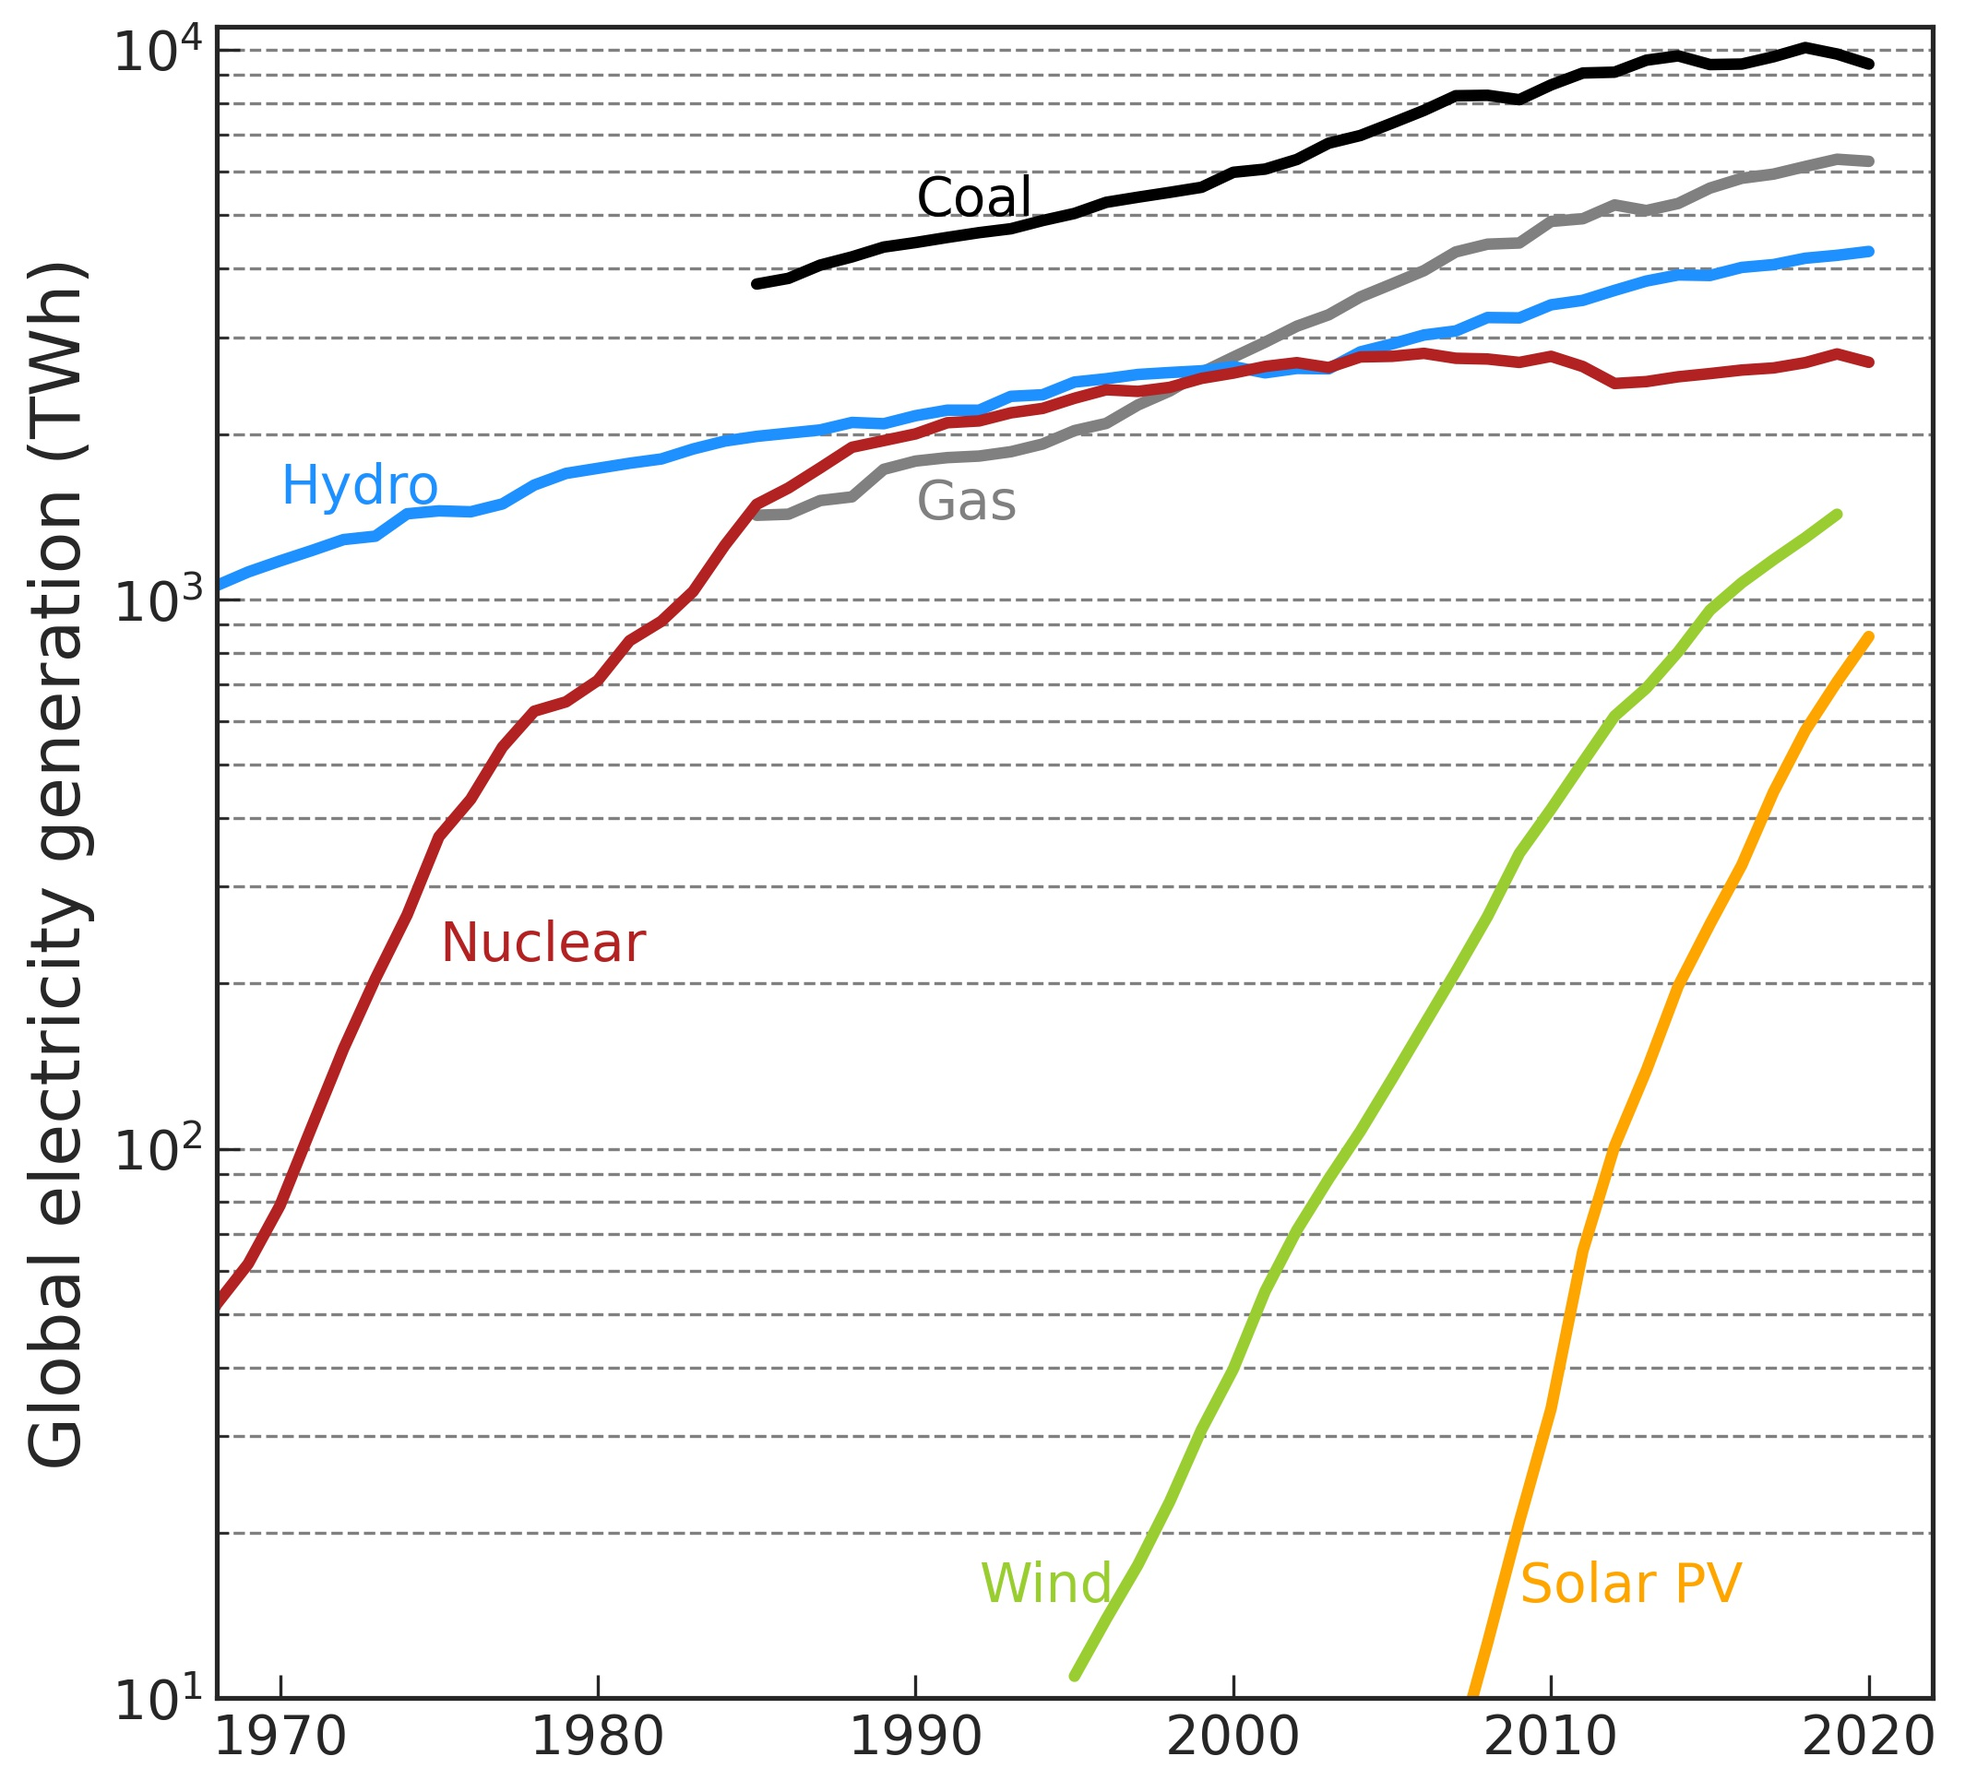
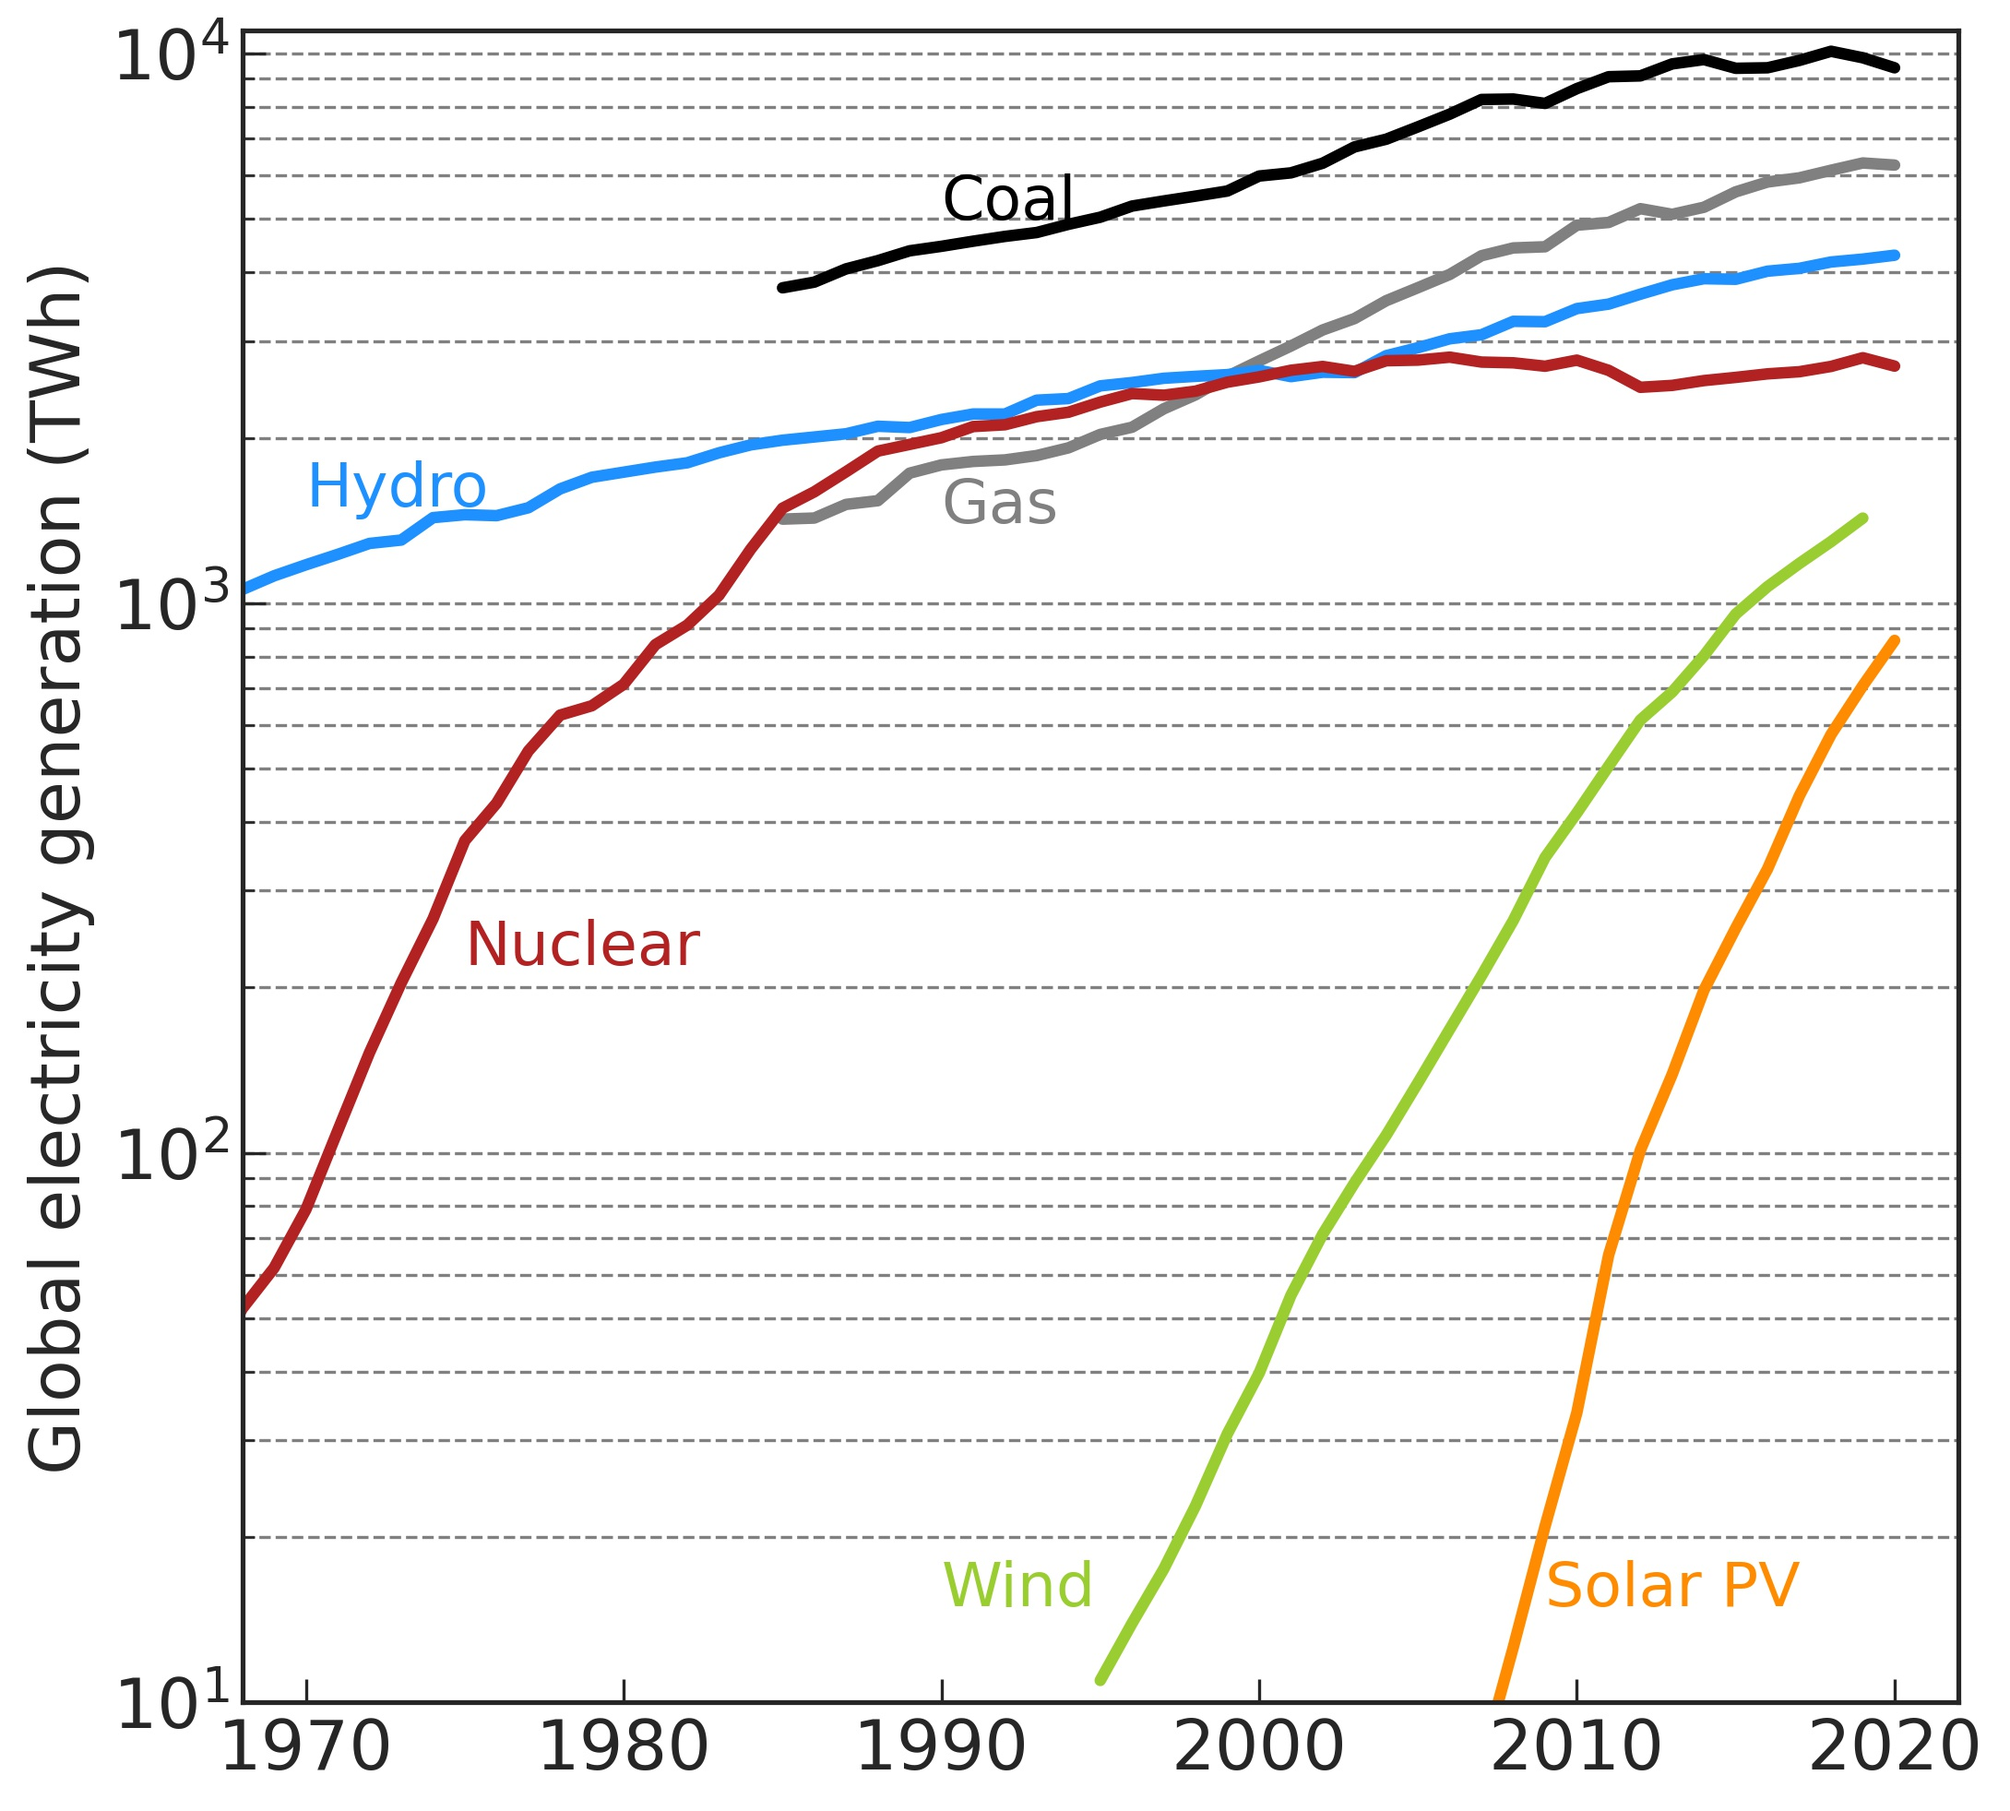
Add figures for GHG emissions  and annual and cumulative capacity

Changed region(s): [[0.0, 0.0, 0.9915, 0.9882], [0.4028, 0.2162, 0.5268, 0.3088], [0.3718, 0.2779, 0.4028, 0.3088]]

diff --git a/Figures/Chapter_1/annual_and_cumulative_capacity.py b/Figures/Chapter_1/annual_and_cumulative_capacity.py
@@ -1,0 +1,90 @@
+# -*- coding: utf-8 -*-
+"""
+@author: Marta
+"""
+
+import pandas as pd
+import matplotlib.pyplot as plt
+import matplotlib.gridspec as gridspec
+
+plt.style.use('seaborn-ticks')
+plt.rcParams['axes.labelsize'] = 18
+plt.rcParams['xtick.labelsize'] = 18
+plt.rcParams['ytick.labelsize'] = 18
+plt.rcParams['xtick.direction'] = 'in'
+plt.rcParams['ytick.direction'] = 'in'
+plt.rcParams['font.family'] = 'avenir'
+plt.rcParams['axes.titlesize'] = 18
+
+plt.figure(figsize=(16, 8))
+gs1 = gridspec.GridSpec(1, 2)
+gs1.update(wspace=0.4, hspace=0.2)
+
+colors={'Solar': 'darkorange',
+        'Solar PV': 'darkorange',
+        'Wind': 'yellowgreen',
+        'Geo Biomass Other': 'coral',
+        'Hydro':'dodgerblue',
+        'Nuclear': 'firebrick',
+        'Coal':'black',
+        'Oil': 'dimgray',
+        'Gas':'gray'}
+
+"""
+FIGURE A) ANNUAL AND CUMULATIVE PV CAPACITY
+"""
+
+ax1 = plt.subplot(gs1[0,0])
+datafile = pd.read_excel('data/bp-stats-review-2021-all-data.xlsx', 
+                              sheet_name='Solar Capacity',
+                              index_col=0, header=0, squeeze=True) 
+ 
+capacity=0.001*datafile.loc['Total World'][0:24] #MW -> GW
+capacity.index=[int(x) for x in datafile.loc['Megawatts'][0:24]]
+capacity.loc[2020]=700 #update 2020 capacity
+capacity.loc[2021]=900 #update 2020 capacity
+annual_capacity=capacity.diff()[1:]
+
+
+ax1.bar(annual_capacity.index, 
+        annual_capacity,
+              width=0.8,
+              color='black')
+ax1.set_ylabel('Solar PV - Annual capacity added (GW/y)')
+ax1.set_ylim(0,210)
+
+ax2=ax1.twinx()
+ax2.plot(capacity, 
+         color=colors['Solar PV'], 
+         linewidth=3)
+ax2.set_ylim(0,950)
+ax2.spines['right'].set_color(colors['Solar PV'])
+ax2.yaxis.label.set_color(colors['Solar PV'])
+ax2.tick_params(axis='y', colors=colors['Solar PV'])
+ax2.set_ylabel('Solar PV - Cumulative capacity (GW)', color=colors['Solar'])
+ax1.grid(color='grey', linestyle='--', axis='y', which='both')
+
+"""
+FIGURE B) INSTALLED CAPACITY PER TECHNOLOGY 2009-2019
+"""
+
+ax2 = plt.subplot(gs1[0,1])
+
+labels=['Solar PV',
+        'Wind',
+        'Hydro',
+        #'Nuclear', #net additions 2009-2019:-7GW
+        'Coal',
+        #'Oil', #net additions 2009-2019:-2GW
+        'Gas']
+
+sizes = [638, 487, 283, 529, 438]
+
+ax2.pie(sizes, 
+        colors=[colors[label] for label in labels], 
+        labels=labels, 
+        startangle=90, 
+        wedgeprops={'linewidth':0})
+ax2.set_title('Power generations capacity added (2009-2019)')
+
+plt.savefig('figures/annual_and_cumulative_capacity.jpg', dpi=300, bbox_inches='tight')  

diff --git a/Figures/Chapter_1/historical_energy_generation_expansion.py b/Figures/Chapter_1/historical_energy_generation_expansion.py
@@ -8,21 +8,21 @@ import matplotlib.pyplot as plt
 import matplotlib.gridspec as gridspec
 
 plt.style.use('seaborn-ticks')
-plt.rcParams['axes.labelsize'] = 14
-plt.rcParams['xtick.labelsize'] = 14
-plt.rcParams['ytick.labelsize'] = 14
+plt.rcParams['axes.labelsize'] = 18
+plt.rcParams['xtick.labelsize'] = 18
+plt.rcParams['ytick.labelsize'] = 18
 plt.rcParams['xtick.direction'] = 'in'
 plt.rcParams['ytick.direction'] = 'in'
 plt.rcParams['font.family'] = 'avenir'
-plt.rcParams['axes.titlesize'] = 14
+plt.rcParams['axes.titlesize'] = 18
 plt.figure(figsize=(8, 8))
 gs1 = gridspec.GridSpec(1, 1)
 gs1.update(wspace=0.2, hspace=0.2)
 
 ax1 = plt.subplot(gs1[0,0])
-colors={'Solar': 'orange',
+colors={'Solar': 'darkorange',
         'Wind': 'yellowgreen',
-        'Geo Biomass Other': 'coral',
+        'Geo Biomass Other': 'brown', #'coral',
         'Hydro':'dodgerblue',
         'Nuclear': 'firebrick',
         'Coal':'black',
@@ -74,11 +74,11 @@ ax1.set_ylabel('Global electricity generation (TWh)', fontsize=18)
 ax1.grid(color='grey', linestyle='--', axis='y', which='both')
 ax1.set_ylim(10, 11000)
 ax1.set_xlim(1968, 2022)
-ax1.text(2009, 15, 'Solar PV', color=colors['Solar'], fontsize=14)
-ax1.text(1992, 15, 'Wind', color=colors['Wind'], fontsize=14)
-ax1.text(1975, 220, 'Nuclear', color=colors['Nuclear'], fontsize=14)
-ax1.text(1990, 5000, 'Coal', color=colors['Coal'], fontsize=14)
-ax1.text(1970, 1500, 'Hydro', color=colors['Hydro'], fontsize=14)
-ax1.text(1990, 1400, 'Gas', color=colors['Gas'], fontsize=14)
+ax1.text(2009, 15, 'Solar PV', color=colors['Solar'], fontsize=16)
+ax1.text(1990, 15, 'Wind', color=colors['Wind'], fontsize=16)
+ax1.text(1975, 220, 'Nuclear', color=colors['Nuclear'], fontsize=16)
+ax1.text(1990, 5000, 'Coal', color=colors['Coal'], fontsize=16)
+ax1.text(1970, 1500, 'Hydro', color=colors['Hydro'], fontsize=16)
+ax1.text(1990, 1400, 'Gas', color=colors['Gas'], fontsize=16)
 
 plt.savefig('figures/historical_energy_generation_expansion.jpg', dpi=300, bbox_inches='tight')  

diff --git a/Figures/Chapter_1/GHG_different_technologies.py b/Figures/Chapter_1/GHG_different_technologies.py
@@ -1,0 +1,66 @@
+# -*- coding: utf-8 -*-
+"""
+@author: Marta
+"""
+
+import pandas as pd
+import matplotlib.pyplot as plt
+import matplotlib.gridspec as gridspec
+
+plt.style.use('seaborn-ticks')
+plt.rcParams['axes.labelsize'] = 18
+plt.rcParams['xtick.labelsize'] = 18
+plt.rcParams['ytick.labelsize'] = 18
+plt.rcParams['xtick.direction'] = 'in'
+plt.rcParams['ytick.direction'] = 'in'
+plt.rcParams['font.family'] = 'avenir'
+plt.rcParams['axes.titlesize'] = 18
+
+plt.figure(figsize=(16, 8))
+gs1 = gridspec.GridSpec(1, 1)
+gs1.update(wspace=0.4, hspace=0.2)
+
+colors={'Solar': 'darkorange',
+        'Solar PV': 'darkorange',
+        'Wind': 'yellowgreen',
+        'Biomass': 'peru',
+        'Geothermal': 'coral',
+        'Hydro':'dodgerblue',
+        'Nuclear': 'firebrick',
+        'Coal':'black',
+        'Oil': 'gray',
+        'Gas':'silver'}
+
+techs=['Solar PV', 
+       'Wind',
+       'Geothermal',
+       'Hydro',
+       'Nuclear',
+       'Biomass',
+       'Gas',
+       'Oil',
+       'Coal']
+
+GHG={'Solar PV':20, #43
+     'Wind': 13,
+     'Biomass':52,
+     'Geothermal':27,
+     'Hydro':21,
+     'Nuclear':13,
+     'Gas':486,
+     'Oil':840,
+     'Coal':1001}
+
+ax1 = plt.subplot(gs1[0,0])
+for i,tech in enumerate(techs):
+    ax1.bar(i,GHG[tech], 
+            width=0.5,
+            color=colors[tech])
+    
+#ax1.set_ylim(0,210)
+ax1.set_ylabel('Lifecycle Greenhouse Gas Emissions (gr CO$_2$/kWh)')
+ax1.set_xticks(range(0,len(techs)))
+ax1.set_xticklabels(techs)
+ax1.grid(color='grey', linestyle='--', axis='y', which='both')
+
+plt.savefig('figures/GHG_technologies.jpg', dpi=300, bbox_inches='tight')  
